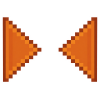
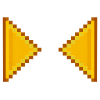
Agrego nivel para testeos

Changed region(s): [[0.57, 0.15, 0.99, 0.84], [0.03, 0.15, 0.42, 0.84]]

diff --git a/pixelstrike/escenas_menu.py b/pixelstrike/escenas_menu.py
@@ -1,5 +1,6 @@
 """Pantallas de menú: selector de dificultad, de niveles, de personajes y créditos."""
 import pygame
+import math
 
 from . import ajustes as aj
 from . import datos as d
@@ -7,16 +8,20 @@ from .entrada import TeclasRepetibles
 from .escena import Escena
 from .recursos import recursos
 
-DORADO = (255, 210, 63)
-GRIS_CLARO = (205, 205, 205)
+DORADO = (255, 217, 59)
+GRIS_CLARO = (190, 190, 190)
 BLANCO = (255, 255, 255)
+SOMBRA = (0, 0, 0, 100)  # para dibujar un rectángulo semitransparente detrás del texto
 
 # Diseño del selector de dificultad (píxeles del lienzo de 1600x900)
 TITULO_CENTRO_Y = 150          # centro vertical del título (imagen o texto)
 TITULO_MAX = (1400, 230)       # si la imagen del título es más grande, se reduce a este tamaño
 OPCION_Y0, OPCION_PASO = 370, 100
 TAM_OPCION_ELEGIDA = 52
-MARGEN_TRIANGULOS = 30         # separación entre cada triángulo y el texto de la opción
+MARGEN_TRIANGULOS = 50         # separación entre cada triángulo y el texto de la opción
+
+AMPLITUD_TRIANGULOS = 30        # los triángulos se mueven de un lado a otro, con esta amplitud
+VELOCIDAD_TRIANGULOS = 15.0    # VELOCIDAD ANGULAR = 2 * 3.14159 * FRECUENCIA_OSICLACION  # rad/s
 
 
 class SelectorDificultad(Escena):
@@ -34,6 +39,10 @@ class SelectorDificultad(Escena):
         self._adornos_listos = False
         self._titulo = None            # Surface del título, o None para usar texto
         self._triangulos = None        # (izquierdo, derecho), o None para usar el recuadro dorado
+        self._tiempo = 0.0
+
+    def actualizar(self, dt):
+        self._tiempo += dt
 
     def _preparar_adornos(self):
         """Carga (una sola vez) las imágenes opcionales del título y de los triángulos."""
@@ -92,9 +101,10 @@ class SelectorDificultad(Escena):
             pygame.draw.rect(lienzo, DORADO, caja, 4, border_radius=14)
             return
         izquierdo, derecho = self._triangulos
-        lienzo.blit(izquierdo, (texto.left - MARGEN_TRIANGULOS - izquierdo.get_width(),
-                                centro_y - izquierdo.get_height() // 2))
-        lienzo.blit(derecho, (texto.right + MARGEN_TRIANGULOS, centro_y - derecho.get_height() // 2))
+        
+        empuje = AMPLITUD_TRIANGULOS * (0.5 + 0.5 * math.sin(self._tiempo * VELOCIDAD_TRIANGULOS))
+        lienzo.blit(izquierdo, (texto.left - MARGEN_TRIANGULOS - izquierdo.get_width() + empuje, centro_y - izquierdo.get_height() // 2))
+        lienzo.blit(derecho, (texto.right + MARGEN_TRIANGULOS - 10 - empuje, centro_y - derecho.get_height() // 2))
 
     def _confirmar(self):
         self.juego.progreso.dificultad = d.ORDEN_DIFICULTADES[self.indice].clave
@@ -115,11 +125,11 @@ class SelectorDificultad(Escena):
             lienzo.blit(self._titulo, self._titulo.get_rect(center=(centro, TITULO_CENTRO_Y)))
         else:
             recursos.texto(lienzo, aj.TITULO.upper(), 150, DORADO, centro, 80)
-        recursos.texto(lienzo, "Elegí la dificultad", 42, BLANCO, centro, 270)
+        recursos.texto(lienzo, "Elije la dificultad", 42, BLANCO, centro, 270)
         for i, dificultad in enumerate(d.ORDEN_DIFICULTADES):
             y = OPCION_Y0 + i * OPCION_PASO
             if i == self.indice:
-                texto = recursos.texto(lienzo, dificultad.nombre.upper(), TAM_OPCION_ELEGIDA, DORADO, centro, y)
+                texto = recursos.texto(lienzo, dificultad.nombre.upper(), TAM_OPCION_ELEGIDA, DORADO, centro, y, SOMBRA)
                 self._marcar_opcion(lienzo, texto)
             else:
                 recursos.texto(lienzo, dificultad.nombre.upper(), 40, GRIS_CLARO, centro, y + 4)
@@ -218,7 +228,7 @@ class SelectorNiveles(Escena):
         personaje = d.PERSONAJES[self.juego.progreso.personaje]
         recursos.dibujar(lienzo, personaje.skin, self.x, self.y)
         recursos.texto(lienzo, f"Dificultad: {self.juego.progreso.dificultad_actual().nombre}   (Esc: cambiar)",
-                       30, BLANCO, aj.ANCHO - 260, 14)
+                       30, BLANCO, aj.ANCHO - 340, 14)
         self.dibujar_indicadores(lienzo)
 
 

diff --git a/pixelstrike/prueba.py b/pixelstrike/prueba.py
@@ -1,0 +1,60 @@
+import pygame
+import random
+
+pygame.init()
+pantalla = pygame.display.set_mode((800, 600))
+reloj = pygame.time.Clock()
+
+class Particula:
+    def __init__(self, x, y):
+        self.x = x
+        self.y = y
+        # Velocidad en X y Y aleatoria
+        self.vx = random.uniform(-3, 3)
+        self.vy = random.uniform(-4, 0)
+        self.radio = random.randint(2, 4)
+        self.vida = 100  # Tiempo de vida de la partícula
+        self.color = (255, random.randint(0, 100), 0)
+
+    def actualizar(self):
+        self.x += self.vx
+        self.y += self.vy
+        self.vida -= 1  # Se reduce la vida en cada fotograma
+
+    def dibujar(self, superficie):
+        if self.vida > 0:
+            # Dibujar un círculo con desvanecimiento o color fijo
+            pygame.draw.circle(
+                superficie, 
+                self.color, 
+                (int(self.x), int(self.y)), 
+                self.radio
+            )
+
+particulas = []
+ejecutando = True
+
+while ejecutando:
+    dt = reloj.tick(60)
+    for evento in pygame.event.get():
+        if evento.type == pygame.QUIT:
+            ejecutando = False
+
+    # Crear nuevas partículas en la posición del mouse al hacer clic
+    if pygame.mouse.get_pressed()[0]:
+        mx, my = pygame.mouse.get_pos()
+        for _ in range(5):
+            particulas.append(Particula(mx, my))
+
+    pantalla.fill((30, 30, 30))
+
+    # Actualizar y filtrar partículas con vida mayor a cero
+    for p in particulas:
+        p.actualizar()
+        p.dibujar(pantalla)
+    
+    particulas = [p for p in particulas if p.vida > 0]
+
+    pygame.display.flip()
+
+pygame.quit()

diff --git a/pixelstrike/datos.py b/pixelstrike/datos.py
@@ -266,6 +266,7 @@ NIVELES = {
                          powerup="defensa", enemigo_con_powerup=4, banner=BANNER_NIVEL_3),
     "nivel4": DatosNivel("nivel4", "nivelFinalSong(1).mp3", "FondoJuegoNivelFinal.png",
                          tipo="jefe", personaje=KRATOS.clave),
+    "nivel_Pruebas": DatosNivel("nivel3", "", "FondoJuego(3).png",aliens=1, crawlers=1, spawn_min=4, spawn_max=4, powerup="danio", enemigo_con_powerup=1, banner=BANNER_NIVEL_1),
 }
 
 # Puertas del selector de niveles: (columna, clave del nivel). Todas en la fila 3.

diff --git a/test.py b/test.py
@@ -1,0 +1,7 @@
+import sys
+from pixelstrike.juego import Juego
+
+clave = "nivel_Pruebas"
+juego = Juego()
+juego.ir_a_nivel(clave)
+juego.ejecutar()
